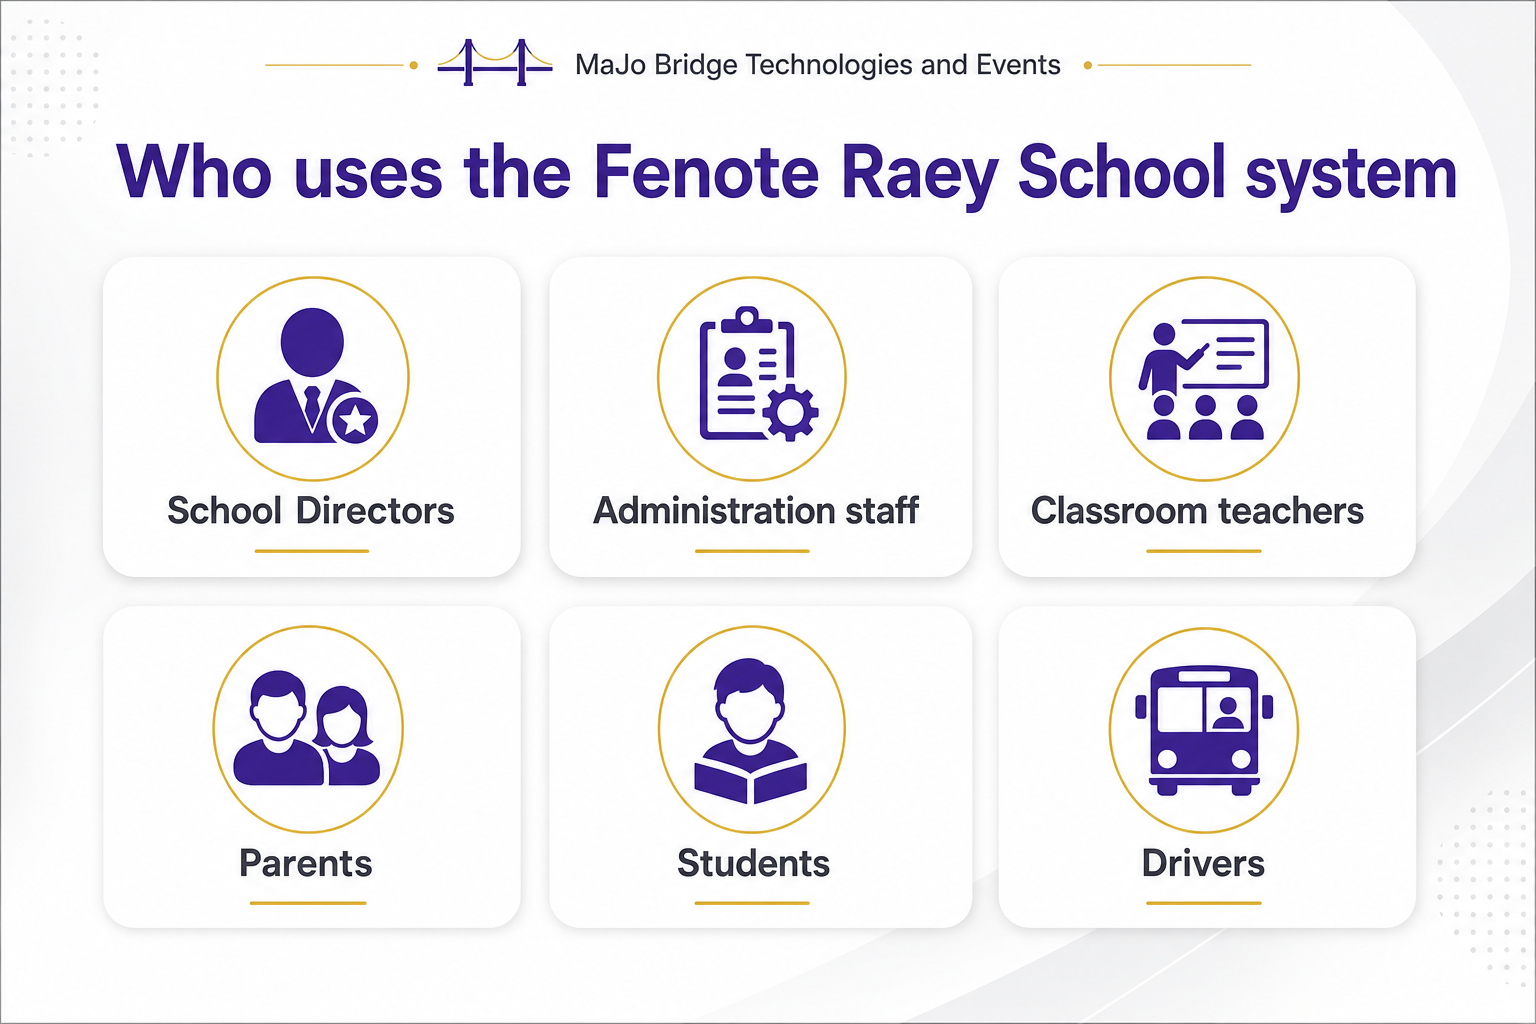
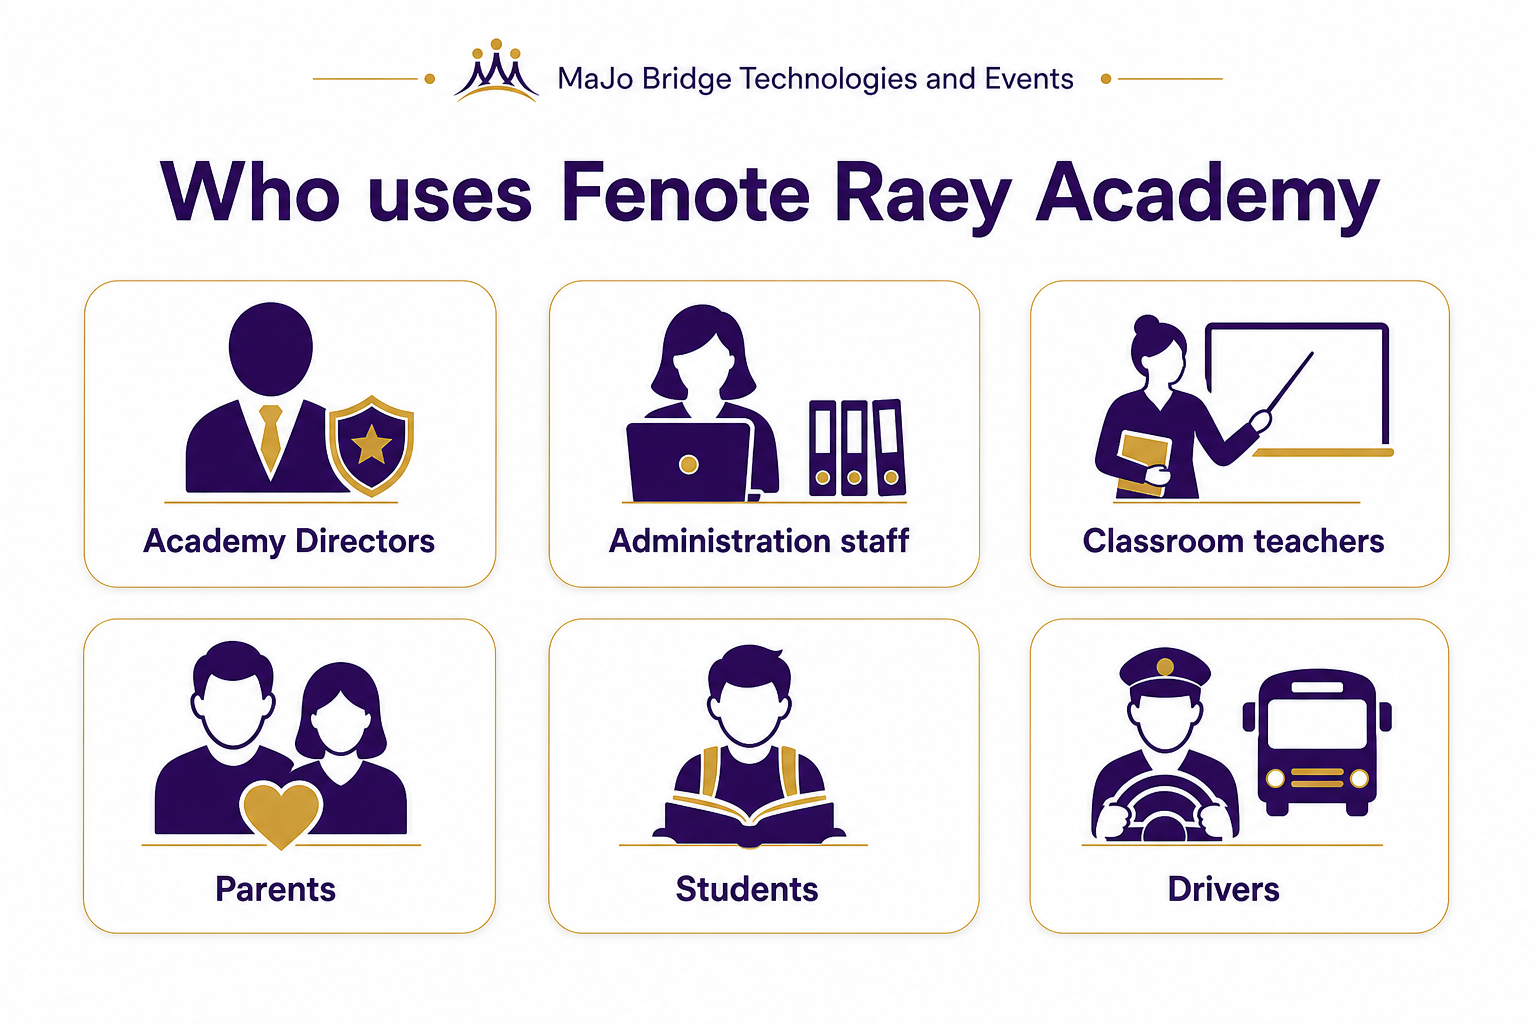
Rename Fenote Raey School to Fenote Raey Academy on the meeting pack.

diff --git a/docs/presentations/final-decision/index.html b/docs/presentations/final-decision/index.html
@@ -3,7 +3,7 @@
 <head>
   <meta charset="utf-8" />
   <meta name="viewport" content="width=device-width, initial-scale=1" />
-  <title>Fenote Raey School — MaJo Bridge Technologies and Events</title>
+  <title>Fenote Raey Academy — MaJo Bridge Technologies and Events</title>
   <style>
     :root {
       --navy: #0f172a;
@@ -117,12 +117,12 @@
     <section class="slide cover on">
       <img class="bg" src="screens/cover.png" alt="" />
       <div class="veil">
-        <div class="kicker">Fenote Raey School · Final decision meeting</div>
-        <h1>Fenote Raey School</h1>
+        <div class="kicker">Fenote Raey Academy · Final decision meeting</div>
+        <h1>Fenote Raey Academy</h1>
         <p style="font-size:26px;max-width:900px;color:#fff;">
           One school system for directors, administration, teachers, parents, students, and transport.
         </p>
-        <p class="am">የፍኖተ ራእይ ትምህርት ቤት · አንድ ትምህርት ቤት · እያንዳንዱ ሚና · አንድ እውነተኛ መረጃ</p>
+        <p class="am">የፍኖተ ራእይ አካዳሚ · አንድ ትምህርት ቤት · እያንዳንዱ ሚና · አንድ እውነተኛ መረጃ</p>
         <p class="muted" style="margin-top:24px;">Presented by <strong style="color:#fff;">MaJo Bridge Technologies and Events</strong></p>
         <p class="muted">School directors · Administration staff · Parent representatives · Leadership bodies</p>
       </div>
@@ -133,7 +133,7 @@
       <h2>Owners directed us to proceed.<br>This meeting is the operational yes.</h2>
       <div class="row two">
         <div>
-          <p>Fenote Raey School owners have already seen this system and asked that it be executed. Today we show every body in this room <strong>what they will use</strong>, <strong>what they will control</strong>, and <strong>how parents stay informed without gossip or delay</strong>.</p>
+          <p>Fenote Raey Academy owners have already seen this system and asked that it be executed. Today we show every body in this room <strong>what they will use</strong>, <strong>what they will control</strong>, and <strong>how parents stay informed without gossip or delay</strong>.</p>
           <p class="am">ባለቤቶቹ አቅጣጫ ሰጥተዋል። ዛሬ የዳይሬክተሮች፣ የአስተዳደር እና የወላጅ ተወካዮች ውሳኔ ነው።</p>
         </div>
         <div class="card">
@@ -163,7 +163,7 @@
       <div class="kicker">Who uses it</div>
       <h2>Every role in this meeting has a home.</h2>
       <div class="row two">
-        <img class="shot" src="screens/diagram-roles.png" alt="Who uses the Fenote Raey School system" />
+        <img class="shot" src="screens/diagram-roles.png" alt="Who uses the Fenote Raey Academy system" />
         <div>
           <p>Same School ID. Different doors. Nobody sees another school. Staff only see the modules their duty requires.</p>
           <ul>
@@ -385,7 +385,7 @@
 
     <section class="slide">
       <div class="kicker">The ask</div>
-      <p class="ask">Recommend this system for Fenote Raey School.</p>
+      <p class="ask">Recommend this system for Fenote Raey Academy.</p>
       <div class="row three">
         <div class="card"><h3>Directors</h3><p>Endorse the grade-approval rule, reports, and oversight dashboard.</p></div>
         <div class="card"><h3>Administration</h3><p>Endorse students, fees, HR, store, and transport as the daily books.</p></div>
@@ -406,7 +406,7 @@
 
   </div>
   <div class="footer">
-    <span>Fenote Raey School · MaJo Bridge Technologies and Events</span>
+    <span>Fenote Raey Academy · MaJo Bridge Technologies and Events</span>
     <span id="pos">1 / 1</span>
     <span>+251 911 646 444</span>
   </div>

diff --git a/docs/presentations/final-decision/leave-behind.html b/docs/presentations/final-decision/leave-behind.html
@@ -3,7 +3,7 @@
 <head>
   <meta charset="utf-8" />
   <meta name="viewport" content="width=device-width, initial-scale=1" />
-  <title>Fenote Raey School — leave-behind</title>
+  <title>Fenote Raey Academy — leave-behind</title>
   <style>
     body { font-family: "Segoe UI", "Noto Sans Ethiopic", Nyala, Arial, sans-serif; color: #0f172a; margin: 24px; }
     h1 { color: #4527a0; margin-bottom: 4px; }
@@ -17,8 +17,8 @@
   </style>
 </head>
 <body>
-  <div class="gold">Fenote Raey School · Final decision leave-behind</div>
-  <h1>Fenote Raey School</h1>
+  <div class="gold">Fenote Raey Academy · Final decision leave-behind</div>
+  <h1>Fenote Raey Academy</h1>
   <p>One school. Every role. One source of truth.<br>
   <strong>MaJo Bridge Technologies and Events</strong></p>
   <p>Live demo: <strong>https://mayabela.pages.dev</strong> · Support: <strong>+251 911 646 444</strong> · nabilmaya6464@gmail.com<br>
@@ -42,7 +42,7 @@
   </div>
 
   <h2>አማርኛ — አጭር ማስታወሻ</h2>
-  <p><strong>ፍኖተ ራእይ ትምህርት ቤት</strong> ይህን ስርዓት ከ <strong>MaJo Bridge Technologies and Events</strong> ጋር ይጠቀማል። ባለቤት፣ ዳይሬክተር፣ አስተዳደር፣ መምህር፣ ወላጅ፣ ተማሪ እና ሹፌር በአንድ የትምህርት ቤት መታወቂያ ይገባሉ። ሌላ ትምህርት ቤት መረጃዎን አያይም።</p>
+  <p><strong>ፍኖተ ራእይ አካዳሚ</strong> ይህን ስርዓት ከ <strong>MaJo Bridge Technologies and Events</strong> ጋር ይጠቀማል። ባለቤት፣ ዳይሬክተር፣ አስተዳደር፣ መምህር፣ ወላጅ፣ ተማሪ እና ሹፌር በአንድ የትምህርት ቤት መታወቂያ ይገባሉ። ሌላ ትምህርት ቤት መረጃዎን አያይም።</p>
   <ul>
     <li>መምህር ውጤት ያስገባል → አመራር ያጸድቃል → ከዚያ ወላጅ ያያል።</li>
     <li>ወላጅ ልጅን የሚያገናኘው በተማሪ መታወቂያ እና በትክክለኛ የልደት ቀን ነው። ትምህርት ቤቱ እስኪያጸድቅ ድረስ አይከፈትም።</li>

diff --git a/docs/presentations/final-decision/SPEAKER_NOTES.md b/docs/presentations/final-decision/SPEAKER_NOTES.md
@@ -1,4 +1,4 @@
-# Fenote Raey School — final decision meeting
+# Fenote Raey Academy — final decision meeting
 
 **Presented by:** MaJo Bridge Technologies and Events  
 **Audience:** school directors, administration staff, parent representatives, other leadership bodies  

diff --git a/docs/presentations/final-decision/README.md b/docs/presentations/final-decision/README.md
@@ -1,4 +1,4 @@
-# Fenote Raey School — final decision meeting pack
+# Fenote Raey Academy — final decision meeting pack
 
 **MaJo Bridge Technologies and Events**
 
